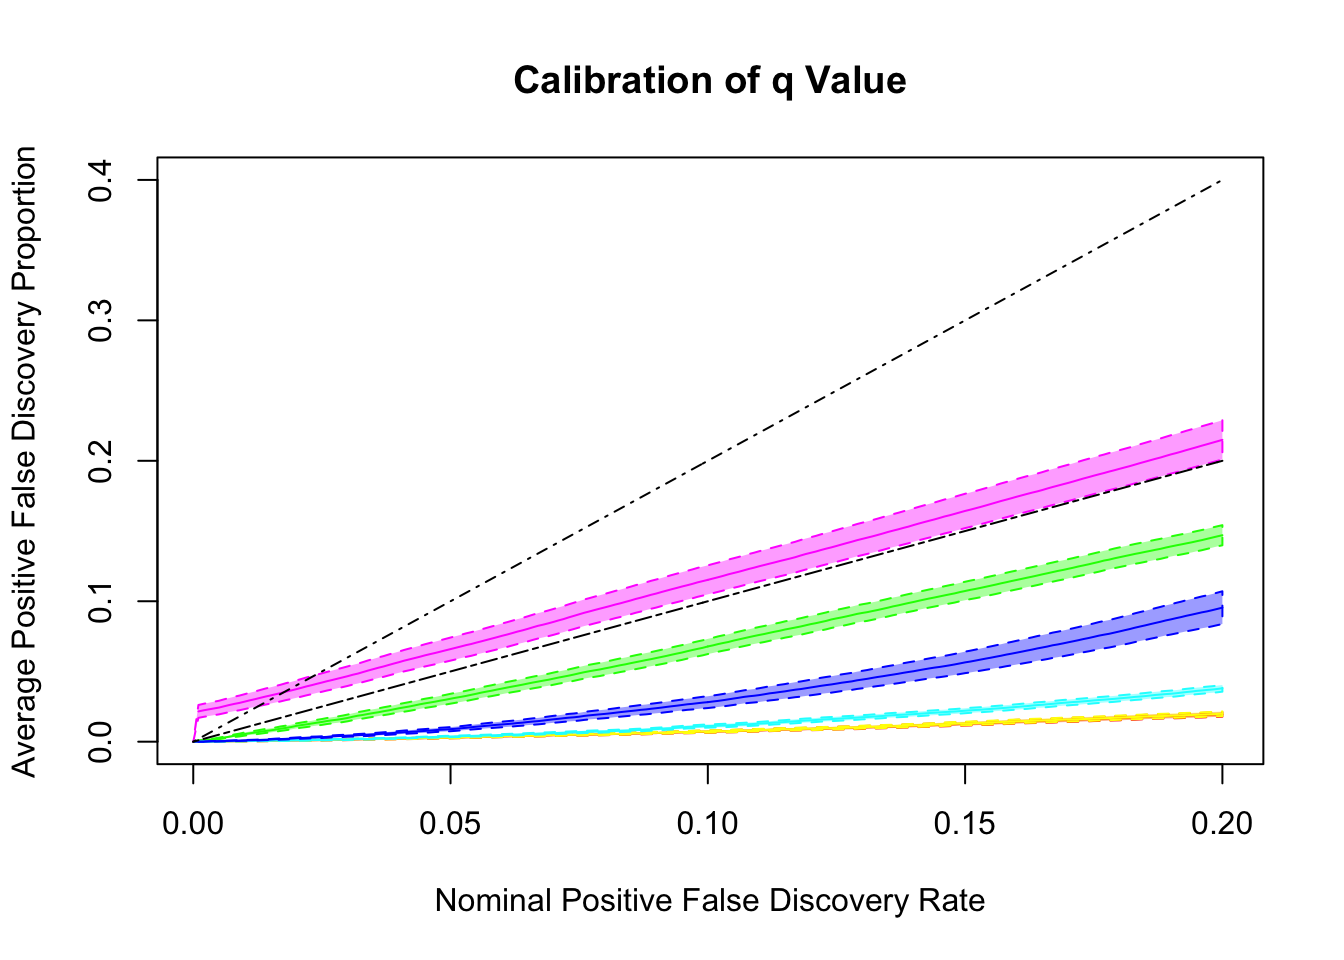
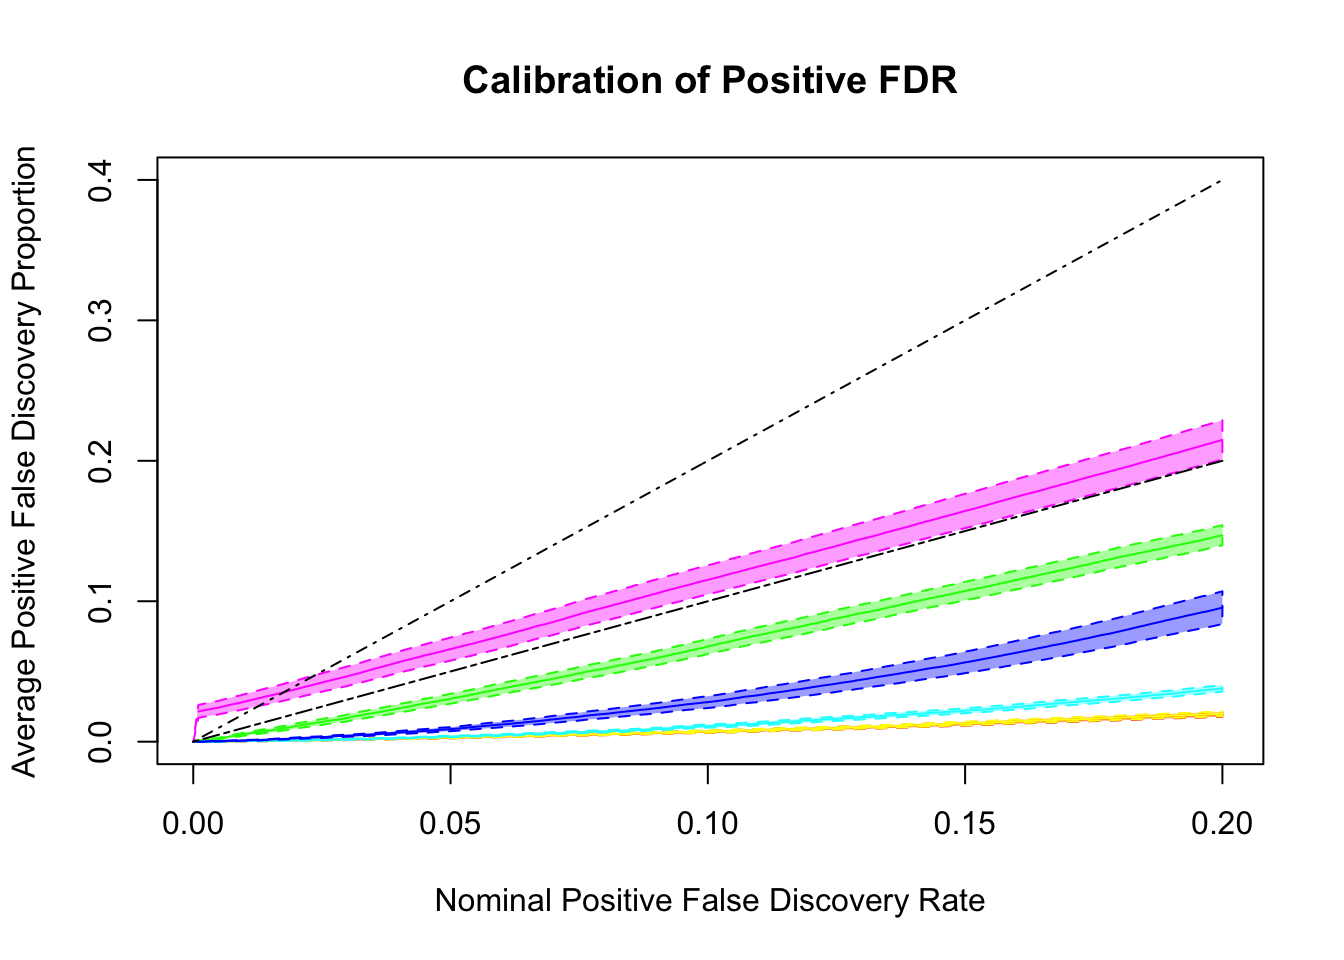
plots

Changed region(s): [[0.3438, 0.0625, 0.7188, 0.125]]

diff --git a/docs/gd_lik_2.html b/docs/gd_lik_2.html
@@ -313,10 +313,10 @@ div.tocify {
 shared across the workflowr files. -->
 <!-- Update knitr chunk options -->
 <!-- Insert the date the file was last updated -->
-<p><strong>Last updated:</strong> 2017-06-25</p>
+<p><strong>Last updated:</strong> 2017-06-30</p>
 <!-- Insert the code version (Git commit SHA1) if Git repository exists and R
  package git2r is installed -->
-<p><strong>Code version:</strong> c9aadb6</p>
+<p><strong>Code version:</strong> 921703f</p>
 <!-- Add your analysis here -->
 <div id="gd-ash-model" class="section level2">
 <h2><code>GD-ASH</code> Model</h2>
@@ -490,6 +490,10 @@ z_j \sim N(0, 1), \text{ correlated, simulated from real data}\\
 <p><img src="figure/gd_lik_2.rmd/inflation%20qvalue%20calibration%20plotting-1.png" width="672" style="display: block; margin: auto;" /><img src="figure/gd_lik_2.rmd/inflation%20qvalue%20calibration%20plotting-2.png" width="672" style="display: block; margin: auto;" /></p>
 </div>
 </div>
+<div id="fdr-calibration" class="section level3">
+<h3>FDR calibration</h3>
+<p><img src="figure/gd_lik_2.rmd/inflation%20FDR%20calibration%20plotting-1.png" width="672" style="display: block; margin: auto;" /><img src="figure/gd_lik_2.rmd/inflation%20FDR%20calibration%20plotting-2.png" width="672" style="display: block; margin: auto;" /></p>
+</div>
 <div id="s-values-and-positive-fsr-pfsr-calibration" class="section level3">
 <h3>s values and positive FSR (pFSR) calibration</h3>
 <p>Both <code>ASH</code> and <code>GD-ASH</code> are too liberal, although <code>GD-ASH</code> is not too far off.</p>
@@ -521,6 +525,10 @@ z_j \sim N(0, 1), \text{ correlated, simulated from real data}\\
 <h3>q values and positive FDR (pFDR) calibration</h3>
 <p>Essentially all methods successfully control pFDR. <code>GD-Lik</code> looks good although off a little. <code>qvalue</code> is the most conservative, followed by <code>ASH</code>, <code>GD-ASH</code>, and <code>locfdr</code>.</p>
 <p><img src="figure/gd_lik_2.rmd/deflation%20qvalue%20calibration%20plotting-1.png" width="672" style="display: block; margin: auto;" /><img src="figure/gd_lik_2.rmd/deflation%20qvalue%20calibration%20plotting-2.png" width="672" style="display: block; margin: auto;" /></p>
+</div>
+<div id="fdr-calibration-1" class="section level3">
+<h3>FDR calibration</h3>
+<p><img src="figure/gd_lik_2.rmd/deflation%20FDR%20calibration%20plotting-1.png" width="672" style="display: block; margin: auto;" /><img src="figure/gd_lik_2.rmd/deflation%20FDR%20calibration%20plotting-2.png" width="672" style="display: block; margin: auto;" /></p>
 </div>
 <div id="s-values-and-positive-fsr-pfsr-calibration-1" class="section level3">
 <h3>s values and positive FSR (pFSR) calibration</h3>
